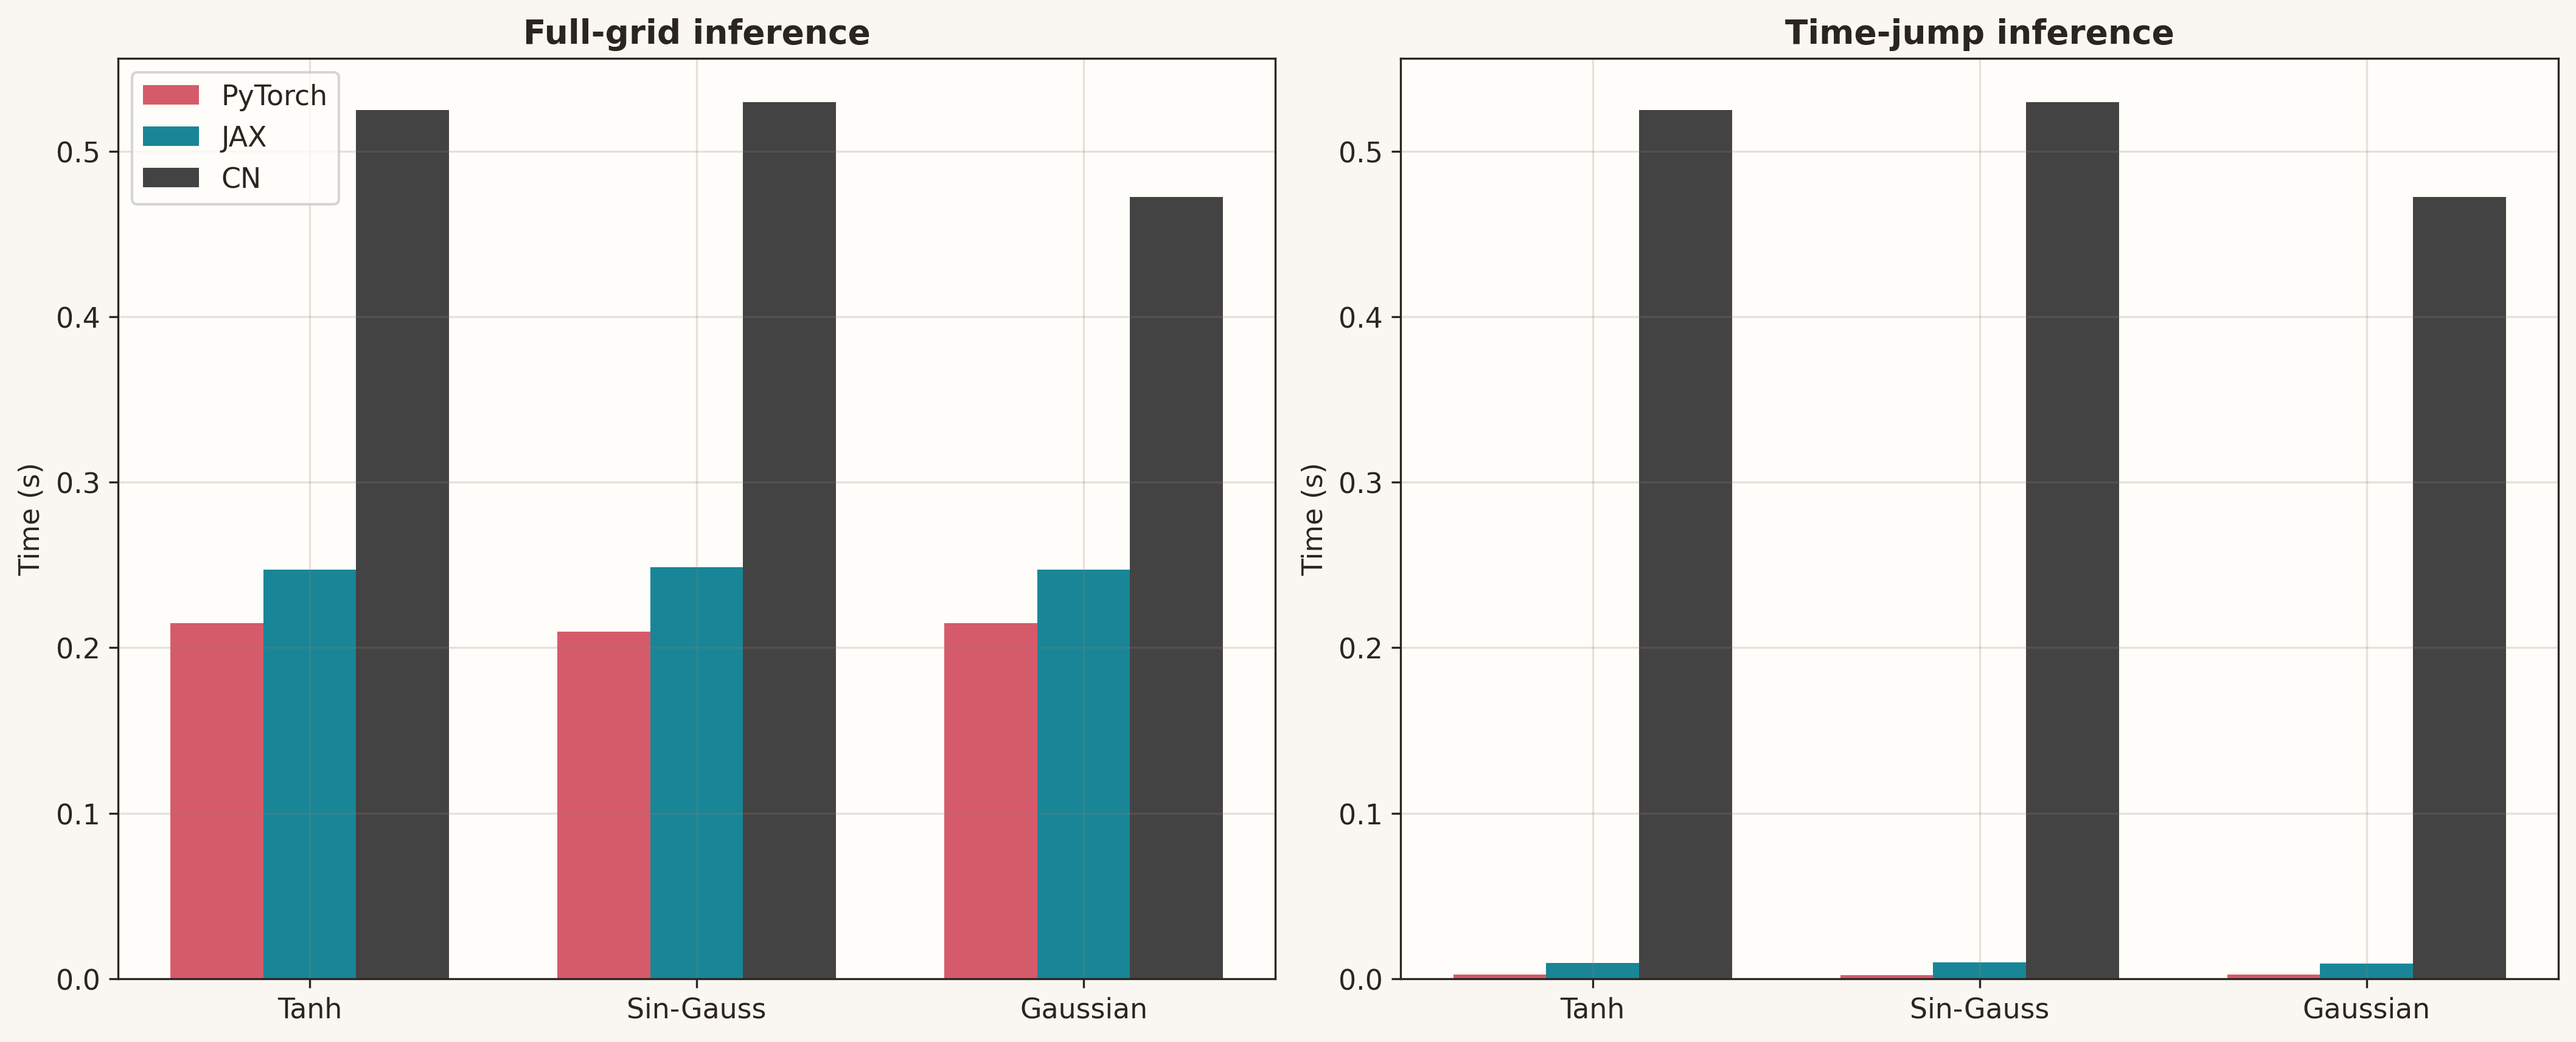
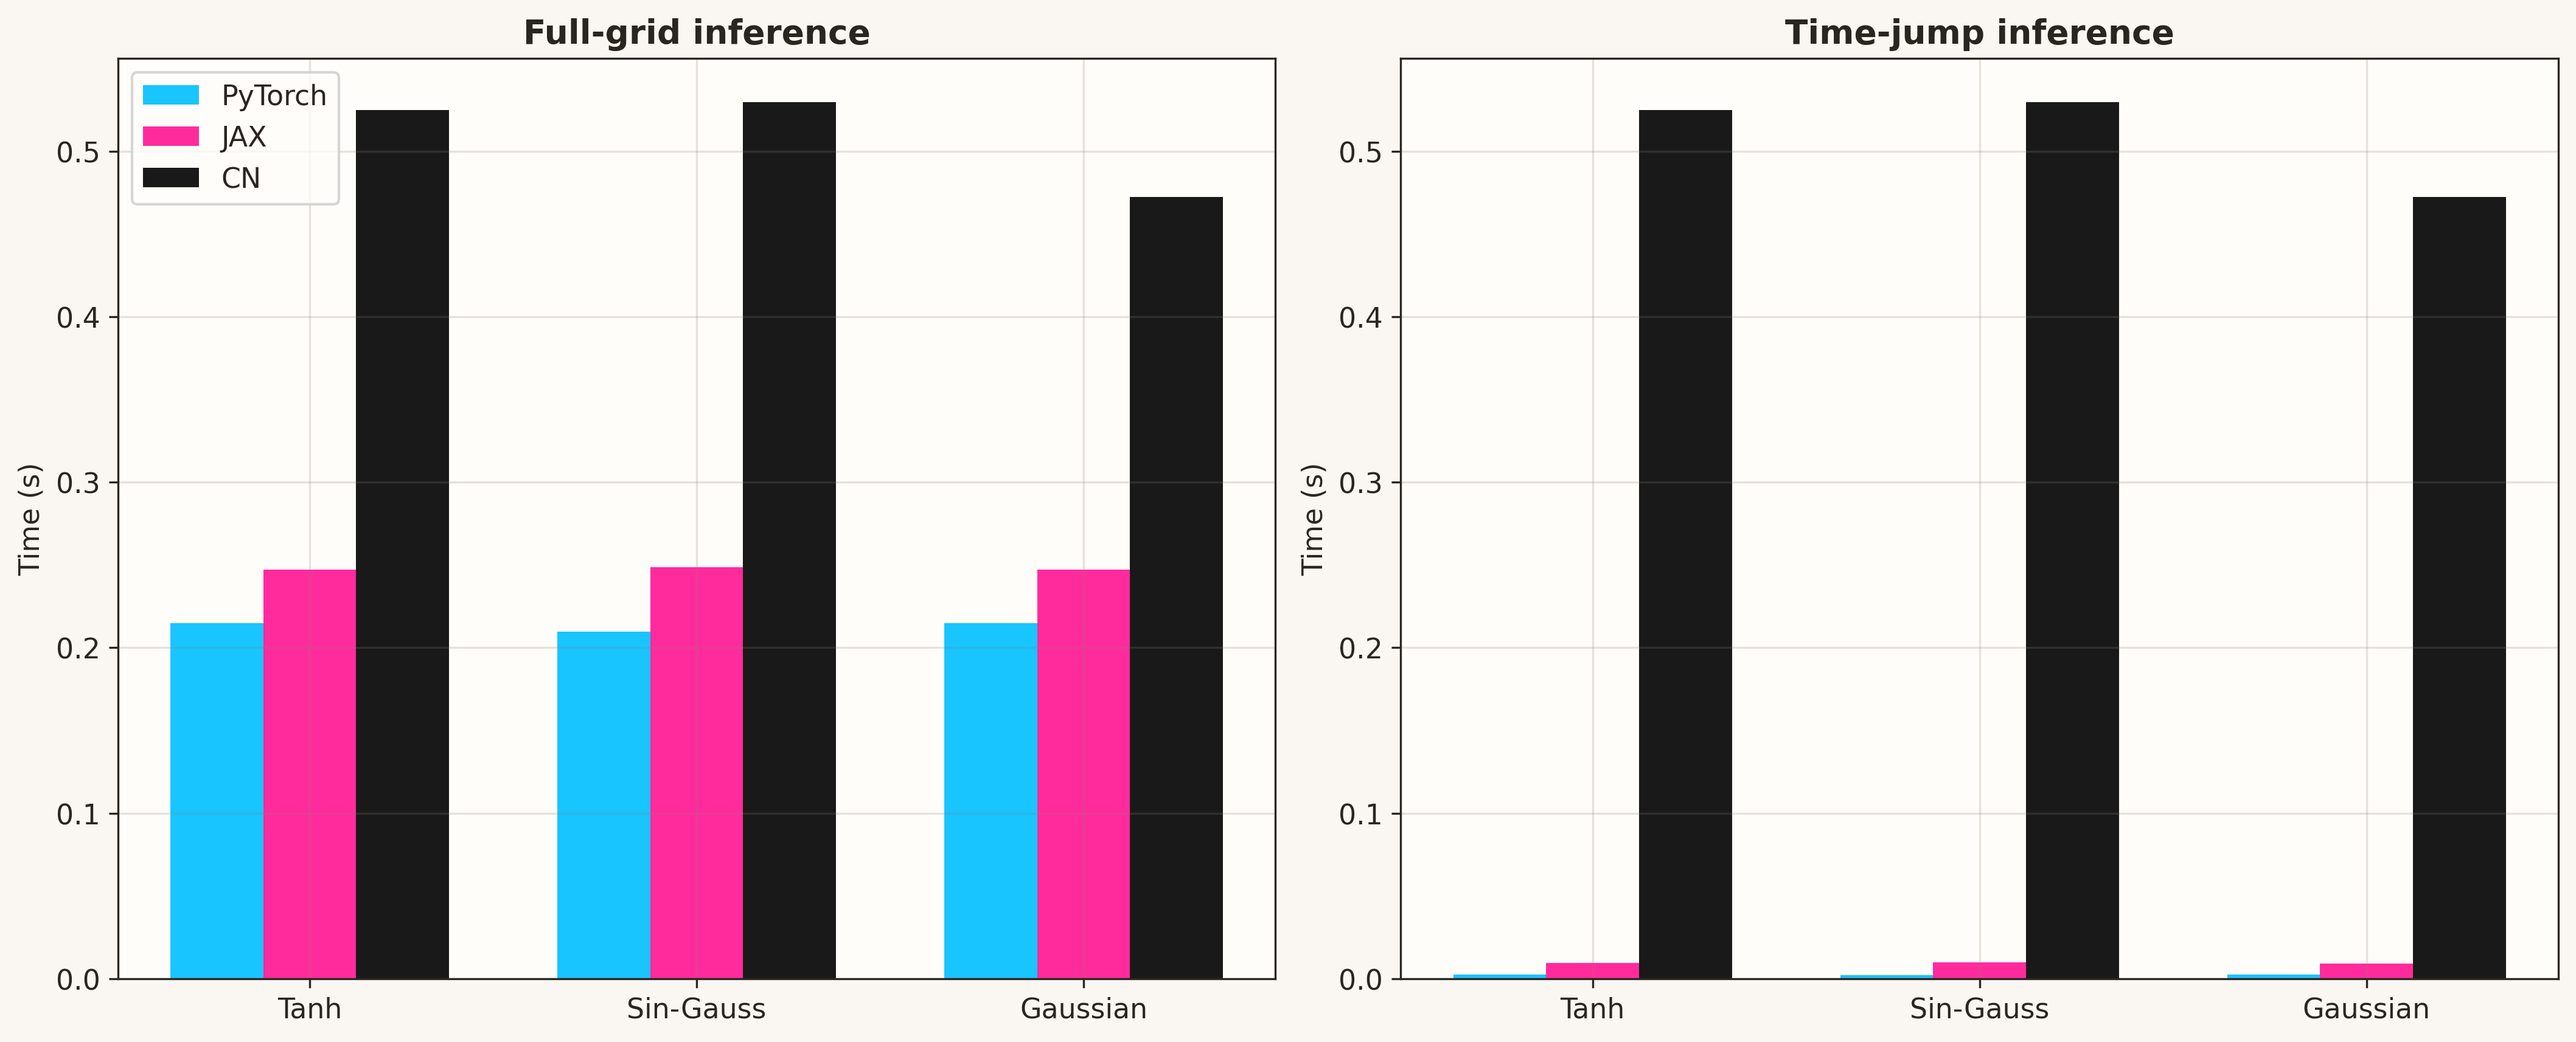
refactor: organize plots and unify comparison colors

diff --git a/scripts/plot_jax_vs_pytorch_comparison.py b/scripts/plot_jax_vs_pytorch_comparison.py
@@ -26,6 +26,9 @@ from src_jax.models.pi_deeponet_adr import apply_model
 
 ASSET_DIR = PROJECT_ROOT / "assets_jax"
 BENCH_ROOTS = [PROJECT_ROOT / "benchmarks", PROJECT_ROOT / "outputs" / "benchmarks"]
+PT_COLOR = "deepskyblue"
+JAX_COLOR = "deeppink"
+CN_COLOR = "black"
 
 JAX_NAME = "benchmark_fulltrainer_t1_equal"
 PT_NAME = "benchmark_fulltrainer_t1"
@@ -124,7 +127,7 @@ def plot_family_l2(bundle: dict) -> None:
     fams = family_order()
     x = np.arange(len(fams))
     width = 0.34
-    colors = {"pytorch": "#d1495b", "jax": "#00798c"}
+    colors = {"pytorch": PT_COLOR, "jax": JAX_COLOR}
 
     for idx, backend in enumerate(["pytorch", "jax"]):
         means = [bundle[backend]["eval"]["family_l2_mean"][fam] for fam in fams]
@@ -152,7 +155,7 @@ def plot_family_l2(bundle: dict) -> None:
                 rotation=0,
             )
 
-    ax.axhline(0.05, color="#222222", linestyle="--", linewidth=1.3, label="5% threshold")
+    ax.axhline(0.05, color=CN_COLOR, linestyle="--", linewidth=1.3, label="5% threshold")
     ax.set_xticks(x, fams)
     ax.set_ylabel("Relative L2 error")
     ax.set_title("Family-wise L2 Error")
@@ -164,7 +167,7 @@ def plot_family_l2(bundle: dict) -> None:
 
 def plot_final_l2_vs_training_time(bundle: dict) -> None:
     fig, ax = plt.subplots(figsize=(9.5, 6))
-    colors = {"pytorch": "#d1495b", "jax": "#00798c"}
+    colors = {"pytorch": PT_COLOR, "jax": JAX_COLOR}
     markers = {"Global": "X", "Tanh": "o", "Sin-Gauss": "s", "Gaussian": "D"}
 
     for backend in ["pytorch", "jax"]:
@@ -190,15 +193,15 @@ def plot_final_l2_vs_training_time(bundle: dict) -> None:
                 fontsize=9,
             )
 
-    ax.axhline(0.05, color="#222222", linestyle="--", linewidth=1.3)
+    ax.axhline(0.05, color=CN_COLOR, linestyle="--", linewidth=1.3)
     ax.set_yscale("log")
     ax.set_xlabel("Training time (hours)")
     ax.set_ylabel("Final relative L2 error")
     ax.set_title("Final L2 Error vs Training Time")
     legend_items = [
-        Line2D([0], [0], marker="o", color="w", markerfacecolor="#d1495b", markeredgecolor="#1f1f1f", markersize=10, label="PyTorch"),
-        Line2D([0], [0], marker="o", color="w", markerfacecolor="#00798c", markeredgecolor="#1f1f1f", markersize=10, label="JAX"),
-        Line2D([0], [0], color="#222222", linestyle="--", label="5% threshold"),
+        Line2D([0], [0], marker="o", color="w", markerfacecolor=PT_COLOR, markeredgecolor="#1f1f1f", markersize=10, label="PyTorch"),
+        Line2D([0], [0], marker="o", color="w", markerfacecolor=JAX_COLOR, markeredgecolor="#1f1f1f", markersize=10, label="JAX"),
+        Line2D([0], [0], color=CN_COLOR, linestyle="--", label="5% threshold"),
     ]
     ax.legend(handles=legend_items, frameon=True)
     savefig(fig, "2_final_l2_vs_training_time.png")
@@ -208,7 +211,7 @@ def plot_training_time_hist(bundle: dict) -> None:
     fig, ax = plt.subplots(figsize=(8.5, 5.5))
     labels = ["PyTorch", "JAX"]
     values = [bundle["pytorch"]["train"]["total_time_sec"] / 60.0, bundle["jax"]["train"]["total_time_sec"] / 60.0]
-    colors = ["#d1495b", "#00798c"]
+    colors = [PT_COLOR, JAX_COLOR]
     bars = ax.bar(labels, values, color=colors, alpha=0.9)
     for bar, value in zip(bars, values):
         ax.text(bar.get_x() + bar.get_width() / 2, value, f"{value:.1f} min", ha="center", va="bottom", fontweight="bold")
@@ -219,7 +222,7 @@ def plot_training_time_hist(bundle: dict) -> None:
 
 def plot_inference(bundle: dict) -> None:
     fig, axes = plt.subplots(1, 2, figsize=(12, 5.2), constrained_layout=True)
-    colors = {"PyTorch": "#d1495b", "JAX": "#00798c", "CN": "#2f2f2f"}
+    colors = {"PyTorch": PT_COLOR, "JAX": JAX_COLOR, "CN": CN_COLOR}
 
     full_vals = [
         bundle["pytorch"]["infer"]["inference_full_grid_sec"],
@@ -248,7 +251,7 @@ def plot_inference(bundle: dict) -> None:
 
 def plot_threshold_frontier(bundle: dict) -> None:
     fig, ax = plt.subplots(figsize=(9.5, 6))
-    colors = {"pytorch": "#d1495b", "jax": "#00798c"}
+    colors = {"pytorch": PT_COLOR, "jax": JAX_COLOR}
 
     for backend in ["pytorch", "jax"]:
         x = bundle[backend]["train"]["total_time_sec"] / 3600.0
@@ -263,7 +266,7 @@ def plot_threshold_frontier(bundle: dict) -> None:
             fontweight="bold",
         )
 
-    ax.axhline(0.05, color="#222222", linestyle="--", linewidth=1.4, label="5% threshold")
+    ax.axhline(0.05, color=CN_COLOR, linestyle="--", linewidth=1.4, label="5% threshold")
     ax.set_yscale("log")
     ax.set_xlabel("Training time (hours)")
     ax.set_ylabel("Global L2 error")
@@ -336,7 +339,7 @@ def plot_snapshots() -> None:
     x = np.linspace(cfg_pt["geometry"]["x_min"], cfg_pt["geometry"]["x_max"], 400)
     t = np.linspace(0.0, 1.0, 200)
     t_indices = [0, len(t) // 8, len(t) // 4, len(t) // 2, -1]
-    time_colors = ["#f6d0b1", "#f0a06b", "#d1495b", "#8f2d56", "#5e1742"]
+    time_colors = plt.cm.RdPu(np.linspace(0.35, 0.95, len(t_indices)))
 
     cases = [
         ("Tanh", {"type": 0, "v": 0.8, "D": 0.1, "mu": 0.5, "A": 1.0, "sigma": 0.5, "k": 2.0}),
@@ -368,9 +371,9 @@ def plot_snapshots() -> None:
 
     axes[-1].set_xlabel("Space x")
     model_handles = [
-        Line2D([0], [0], color="#2b251f", linestyle="--", linewidth=2.6, label="CN"),
-        Line2D([0], [0], color="#2b251f", linestyle="-", linewidth=1.9, label="PyTorch"),
-        Line2D([0], [0], color="#2b251f", linestyle=":", linewidth=2.1, label="JAX"),
+        Line2D([0], [0], color=CN_COLOR, linestyle="--", linewidth=2.6, label="CN"),
+        Line2D([0], [0], color=PT_COLOR, linestyle="-", linewidth=1.9, label="PyTorch"),
+        Line2D([0], [0], color=JAX_COLOR, linestyle=":", linewidth=2.1, label="JAX"),
     ]
     time_handles = [
         Line2D([0], [0], color=color, linestyle="-", linewidth=3.0, label=f"t = {t[t_idx]:.2f}")

diff --git a/scripts/plot_monofamily_comparison.py b/scripts/plot_monofamily_comparison.py
@@ -26,6 +26,9 @@ from src_jax.models.pi_deeponet_adr import apply_model
 ASSET_DIR = PROJECT_ROOT / "assets_monofamille"
 BENCH_ROOT = PROJECT_ROOT / "benchmarks"
 SEED = "seed_0"
+PT_COLOR = "deepskyblue"
+JAX_COLOR = "deeppink"
+CN_COLOR = "black"
 
 FAMILY_META = {
     "Tanh": {
@@ -140,7 +143,7 @@ def plot_family_l2(bundle: dict) -> None:
     families = list(FAMILY_META.keys())
     x = np.arange(len(families))
     width = 0.36
-    colors = {"pytorch": "#d1495b", "jax": "#00798c"}
+    colors = {"pytorch": PT_COLOR, "jax": JAX_COLOR}
 
     fig, ax = plt.subplots(figsize=(10.5, 6))
     for backend, offset in [("pytorch", -width / 2), ("jax", width / 2)]:
@@ -167,7 +170,7 @@ def plot_family_l2(bundle: dict) -> None:
                 fontweight="bold",
             )
 
-    ax.axhline(0.05, color="#222222", linestyle="--", linewidth=1.2, label="5% threshold")
+    ax.axhline(0.05, color=CN_COLOR, linestyle="--", linewidth=1.2, label="5% threshold")
     ax.set_yscale("log")
     ax.set_ylim(1e-3, 2e1)
     ax.set_xticks(x, families)
@@ -181,7 +184,7 @@ def plot_training_time(bundle: dict) -> None:
     families = list(FAMILY_META.keys())
     x = np.arange(len(families))
     width = 0.36
-    colors = {"pytorch": "#d1495b", "jax": "#00798c"}
+    colors = {"pytorch": PT_COLOR, "jax": JAX_COLOR}
 
     fig, ax = plt.subplots(figsize=(10.5, 6))
     pt_vals = [bundle[family]["pytorch"]["train"]["total_time_sec"] / 60.0 for family in families]
@@ -210,7 +213,7 @@ def plot_inference(bundle: dict) -> None:
     families = list(FAMILY_META.keys())
     x = np.arange(len(families))
     width = 0.24
-    colors = {"pytorch": "#d1495b", "jax": "#00798c", "cn": "#2f2f2f"}
+    colors = {"pytorch": PT_COLOR, "jax": JAX_COLOR, "cn": CN_COLOR}
 
     fig, axes = plt.subplots(1, 2, figsize=(14, 5.6), constrained_layout=True)
     for ax, key, title in [
@@ -233,7 +236,7 @@ def plot_inference(bundle: dict) -> None:
 
 
 def plot_frontier(bundle: dict) -> None:
-    colors = {"pytorch": "#d1495b", "jax": "#00798c"}
+    colors = {"pytorch": PT_COLOR, "jax": JAX_COLOR}
     markers = {"Tanh": "o", "Sin-Gauss": "s", "Gaussian": "D"}
 
     fig, ax = plt.subplots(figsize=(9.5, 6))
@@ -259,15 +262,15 @@ def plot_frontier(bundle: dict) -> None:
                 fontsize=9,
             )
 
-    ax.axhline(0.05, color="#222222", linestyle="--", linewidth=1.3, label="5% threshold")
+    ax.axhline(0.05, color=CN_COLOR, linestyle="--", linewidth=1.3, label="5% threshold")
     ax.set_yscale("log")
     ax.set_xlabel("Training time (hours)")
     ax.set_ylabel("Relative L2 error")
     ax.set_title("Monofamily Quality vs Training Time")
     legend_items = [
-        Line2D([0], [0], marker="o", color="w", markerfacecolor="#d1495b", markeredgecolor="#1f1f1f", markersize=10, label="PyTorch"),
-        Line2D([0], [0], marker="o", color="w", markerfacecolor="#00798c", markeredgecolor="#1f1f1f", markersize=10, label="JAX"),
-        Line2D([0], [0], color="#222222", linestyle="--", label="5% threshold"),
+        Line2D([0], [0], marker="o", color="w", markerfacecolor=PT_COLOR, markeredgecolor="#1f1f1f", markersize=10, label="PyTorch"),
+        Line2D([0], [0], marker="o", color="w", markerfacecolor=JAX_COLOR, markeredgecolor="#1f1f1f", markersize=10, label="JAX"),
+        Line2D([0], [0], color=CN_COLOR, linestyle="--", label="5% threshold"),
     ]
     ax.legend(handles=legend_items, frameon=True)
     savefig(fig, "4_monofamily_frontier.png")
@@ -332,9 +335,9 @@ def compute_cn_grid(physics: dict, cfg: dict, x: np.ndarray, t: np.ndarray) -> n
 
 def plot_snapshots(bundle: dict) -> None:
     models = load_models()
-    time_colors = ["#f6d0b1", "#f0a06b", "#d1495b", "#8f2d56", "#5e1742"]
     t = np.linspace(0.0, 1.0, 200)
     t_indices = [0, len(t) // 8, len(t) // 4, len(t) // 2, -1]
+    time_colors = plt.cm.RdPu(np.linspace(0.35, 0.95, len(t_indices)))
 
     fig, axes = plt.subplots(3, 1, figsize=(12.5, 13.4), sharex=True)
     model_styles = {
@@ -365,9 +368,9 @@ def plot_snapshots(bundle: dict) -> None:
 
     axes[-1].set_xlabel("Space x")
     model_handles = [
-        Line2D([0], [0], color="#2b251f", linestyle="--", linewidth=2.6, label="CN"),
-        Line2D([0], [0], color="#2b251f", linestyle="-", linewidth=1.9, label="PyTorch"),
-        Line2D([0], [0], color="#2b251f", linestyle=":", linewidth=2.1, label="JAX"),
+        Line2D([0], [0], color=CN_COLOR, linestyle="--", linewidth=2.6, label="CN"),
+        Line2D([0], [0], color=PT_COLOR, linestyle="-", linewidth=1.9, label="PyTorch"),
+        Line2D([0], [0], color=JAX_COLOR, linestyle=":", linewidth=2.1, label="JAX"),
     ]
     time_handles = [
         Line2D([0], [0], color=color, linestyle="-", linewidth=3.0, label=f"t = {t[t_idx]:.2f}")

diff --git a/src/analyse/inference.py b/src/analyse/inference.py
@@ -100,8 +100,8 @@ def plot_speedup(total_cn, total_don, batch_size, out_dir):
     print(f"Speedup                    : x{speedup:.1f}")
 
     fig, ax = plt.subplots(figsize=(8, 6))
-    labels = [f'Crank-Nicolson\n(Requires full time-stepping)', f'PI-DeepONet\n(Direct "Time-Jumping")']
-    bars = ax.bar(labels, [total_cn, total_don], color=['#380282', '#E0249A'], alpha=0.85, edgecolor='black', width=0.6)
+    labels = [f'CN\n(Requires full time-stepping)', f'PyTorch\n(Direct "Time-Jumping")']
+    bars = ax.bar(labels, [total_cn, total_don], color=['black', 'deepskyblue'], alpha=0.85, edgecolor='black', width=0.6)
     
     for bar in bars:
         ax.text(bar.get_x() + bar.get_width()/2., bar.get_height() + (max([total_cn, total_don])*0.02), 
@@ -109,10 +109,10 @@ def plot_speedup(total_cn, total_don, batch_size, out_dir):
         
     ax.text(1, total_cn * 0.5, f'x{speedup:.0f}\nFASTER', ha='center', va='center', 
             fontsize=16, fontweight='bold', color='white', 
-            bbox=dict(facecolor='#27AE60', edgecolor='black', boxstyle='circle,pad=0.3', alpha=0.9))
+            bbox=dict(facecolor='deeppink', edgecolor='black', boxstyle='circle,pad=0.3', alpha=0.9))
 
     ax.set_ylabel(f'Time to predict final state for {batch_size} scenarios (s)', fontsize=12)
-    ax.set_title(f'The DeepONet Advantage: Time-Jumping to Target State', fontsize=14, fontweight='bold')
+    ax.set_title(f'PyTorch Time-Jumping vs CN', fontsize=14, fontweight='bold')
     ax.grid(axis='y', linestyle='--', alpha=0.6)
     
     plt.tight_layout()

diff --git a/src/analyse/global_analyse_PI_DeepOnet_vs_CN.py b/src/analyse/global_analyse_PI_DeepOnet_vs_CN.py
@@ -138,8 +138,8 @@ def generate_5_plots(x, t, results_dict, title_prefix, out_dir, types_names):
     axes[-1].set_xlabel("Space (x)")
     from matplotlib.lines import Line2D
     style_handles = [
-        Line2D([0], [0], color='k', linestyle='--', lw=2.2, label='Crank-Nicolson'),
-        Line2D([0], [0], color='k', linestyle='-', lw=2.0, label='DeepONet'),
+        Line2D([0], [0], color='black', linestyle='--', lw=2.2, label='CN'),
+        Line2D([0], [0], color='deepskyblue', linestyle='-', lw=2.0, label='PyTorch'),
     ]
     time_handles = [
         Line2D([0], [0], color=cm.RdPu(np.linspace(0.4, 0.9, len(t_indices)))[i], linestyle='-', lw=3, label=f"t={t[t_idx]:.2f}s")
@@ -156,8 +156,8 @@ def generate_5_plots(x, t, results_dict, title_prefix, out_dir, types_names):
     lines = []
     for idx, tid in enumerate(target_types):
         ax = axes[idx]
-        l1, = ax.plot([], [], 'k--', label='Crank-Nicolson')
-        l2, = ax.plot([], [], color='fuchsia', label='DeepONet', lw=2)
+        l1, = ax.plot([], [], 'k--', label='CN')
+        l2, = ax.plot([], [], color='deepskyblue', label='PyTorch', lw=2)
         ax.set_ylim(-1.5, 1.5)
         ax.set_xlim(x[0], x[-1])
         ax.set_title(types_names[tid])

diff --git a/src/analyse/plots.py b/src/analyse/plots.py
@@ -64,8 +64,10 @@ def generate_solution(mode, model, physics, geom, ic_type, device='cpu'):
 def analyse_results(mode="CN", model=None, device='cpu'):
     if mode == "CN":
         out_dir = "outputs/classical_solver"
+        curve_color = "black"
     else:
         out_dir = "outputs/PI_DeepOnet_analyse/plot"
+        curve_color = "deepskyblue"
     os.makedirs(out_dir, exist_ok=True)
 
     geom = {'x_min': -5.0, 'x_max': 8.0, 'T_max': 3.0, 'Nx': 400, 'Nt': 200}
@@ -127,7 +129,7 @@ def analyse_results(mode="CN", model=None, device='cpu'):
         ax.set_title(f"Animation : {ic.capitalize()}", fontsize=12)
         ax.grid(True, alpha=0.2)
         # Ligne fuchsia pour l'animation
-        line, = ax.plot([], [], lw=2.5, color='fuchsia')
+        line, = ax.plot([], [], lw=2.5, color=curve_color)
         lines.append(line)
 
     def update(frame):
